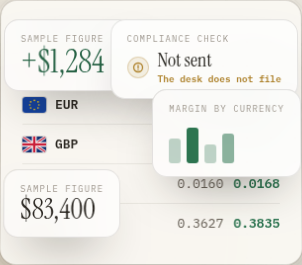
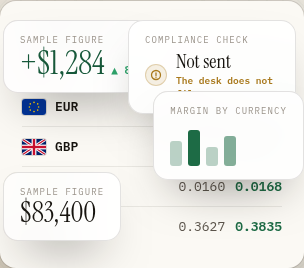
fix: wrap the hero file line and reshoot the phone panels
The signed sentence stays the same and wraps inside the card at phone width. The old-way shot is taken after reduced motion leaves the problems layer visible.

diff --git a/design/site/CurrencyDesk Site.dc.html b/design/site/CurrencyDesk Site.dc.html
@@ -66,6 +66,8 @@
       [data-hero-chrome] { display: none !important; }
       [data-hero-stage] { height: auto !important; }
       [data-hero-rates="card"] { position: relative !important; width: 100% !important; max-width: 100% !important; left: auto !important; top: auto !important; transform: none !important; animation: none !important; margin: 24px auto 0 !important; }
+      [data-hero-note] { max-width: 168px !important; right: 8px !important; box-sizing: border-box !important; }
+      [data-hero-note] span { min-width: 0 !important; white-space: normal !important; overflow-wrap: break-word !important; }
       [data-founding] { grid-template-columns: minmax(0, 1fr) !important; padding: 32px 18px !important; }
       [data-founding-cta], [data-see-demo] { white-space: nowrap !important; }
       [data-nav-cta] { height: 44px !important; min-height: 44px !important; }
@@ -158,7 +160,7 @@
         </div>
 
         <div style="position: absolute; text-align: left; background: rgba(255,255,255,0.9); backdrop-filter: var(--glass); -webkit-backdrop-filter: var(--glass); border: 1px solid var(--line); border-radius: 15px; box-shadow: 0 24px 48px -22px rgba(23,20,15,0.5); top: 7%; left: 1%; padding: 13px 16px; animation: cdFloat 7s ease-in-out infinite;"><div style="font-family: var(--m); font-size: 9px; letter-spacing: 0.12em; text-transform: uppercase; color: var(--faint);">Sample figure</div><div style="font-family: var(--serif); font-size: 32px; color: var(--green-deep); margin-top: 2px; line-height: 1;">+$1,284<span style="font-family: var(--m); font-size: 11px; color: var(--green-bright); font-weight: 600;"> ▲ 8%</span></div></div>
-        <div style="position: absolute; text-align: left; background: rgba(255,255,255,0.9); backdrop-filter: var(--glass); -webkit-backdrop-filter: var(--glass); border: 1px solid var(--line); border-radius: 15px; box-shadow: 0 24px 48px -22px rgba(23,20,15,0.5); top: 7%; right: 1%; padding: 13px 16px; animation: cdFloat 6.4s ease-in-out 0.5s infinite;">
+        <div data-hero-note style="position: absolute; text-align: left; background: rgba(255,255,255,0.9); backdrop-filter: var(--glass); -webkit-backdrop-filter: var(--glass); border: 1px solid var(--line); border-radius: 15px; box-shadow: 0 24px 48px -22px rgba(23,20,15,0.5); top: 7%; right: 1%; padding: 13px 16px; animation: cdFloat 6.4s ease-in-out 0.5s infinite;">
           <div style="font-family: var(--m); font-size: 9px; letter-spacing: 0.12em; text-transform: uppercase; color: var(--faint);">Compliance check</div>
           <div style="display: flex; align-items: center; gap: 9px; margin-top: 6px;">
             <span style="width: 22px; height: 22px; border-radius: 50%; flex: none; display: grid; place-items: center; background: rgba(169,121,28,0.12); border: 1px solid rgba(169,121,28,0.28); color: var(--brass);"><svg viewBox="0 0 24 24" width="12" height="12" fill="none" stroke="currentColor" stroke-width="2.6" stroke-linecap="round" stroke-linejoin="round"><path d="M12 8v5M12 16.5v.01"></path><circle cx="12" cy="12" r="9"></circle></svg></span>

diff --git a/web/index.html b/web/index.html
@@ -77,6 +77,8 @@
       [data-hero-chrome] { display: none !important; }
       [data-hero-stage] { height: auto !important; }
       [data-hero-rates="card"] { position: relative !important; width: 100% !important; max-width: 100% !important; left: auto !important; top: auto !important; transform: none !important; animation: none !important; margin: 24px auto 0 !important; }
+      [data-hero-note] { max-width: 168px !important; right: 8px !important; box-sizing: border-box !important; }
+      [data-hero-note] span { min-width: 0 !important; white-space: normal !important; overflow-wrap: break-word !important; }
       [data-founding] { grid-template-columns: minmax(0, 1fr) !important; padding: 32px 18px !important; }
       [data-founding-cta], [data-see-demo] { white-space: nowrap !important; }
       [data-nav-cta] { height: 44px !important; min-height: 44px !important; }
@@ -169,7 +171,7 @@
         </div>
 
         <div style="position: absolute; text-align: left; background: rgba(255,255,255,0.9); backdrop-filter: var(--glass); -webkit-backdrop-filter: var(--glass); border: 1px solid var(--line); border-radius: 15px; box-shadow: 0 24px 48px -22px rgba(23,20,15,0.5); top: 7%; left: 1%; padding: 13px 16px; animation: cdFloat 7s ease-in-out infinite;"><div style="font-family: var(--m); font-size: 9px; letter-spacing: 0.12em; text-transform: uppercase; color: var(--faint);">Sample figure</div><div style="font-family: var(--serif); font-size: 32px; color: var(--green-deep); margin-top: 2px; line-height: 1;">+$1,284<span style="font-family: var(--m); font-size: 11px; color: var(--green-bright); font-weight: 600;"> ▲ 8%</span></div></div>
-        <div style="position: absolute; text-align: left; background: rgba(255,255,255,0.9); backdrop-filter: var(--glass); -webkit-backdrop-filter: var(--glass); border: 1px solid var(--line); border-radius: 15px; box-shadow: 0 24px 48px -22px rgba(23,20,15,0.5); top: 7%; right: 1%; padding: 13px 16px; animation: cdFloat 6.4s ease-in-out 0.5s infinite;">
+        <div data-hero-note style="position: absolute; text-align: left; background: rgba(255,255,255,0.9); backdrop-filter: var(--glass); -webkit-backdrop-filter: var(--glass); border: 1px solid var(--line); border-radius: 15px; box-shadow: 0 24px 48px -22px rgba(23,20,15,0.5); top: 7%; right: 1%; padding: 13px 16px; animation: cdFloat 6.4s ease-in-out 0.5s infinite;">
           <div style="font-family: var(--m); font-size: 9px; letter-spacing: 0.12em; text-transform: uppercase; color: var(--faint);">Compliance check</div>
           <div style="display: flex; align-items: center; gap: 9px; margin-top: 6px;">
             <span style="width: 22px; height: 22px; border-radius: 50%; flex: none; display: grid; place-items: center; background: rgba(169,121,28,0.12); border: 1px solid rgba(169,121,28,0.28); color: var(--brass);"><svg viewBox="0 0 24 24" width="12" height="12" fill="none" stroke="currentColor" stroke-width="2.6" stroke-linecap="round" stroke-linejoin="round"><path d="M12 8v5M12 16.5v.01"></path><circle cx="12" cy="12" r="9"></circle></svg></span>

diff --git a/tests/e2e/phone-layout-home.spec.ts b/tests/e2e/phone-layout-home.spec.ts
@@ -63,6 +63,17 @@ test("stacks the desktop page below 640 and keeps tap targets at 44px", async ({
   note(!!card && card.x >= -1 && card.x + card.width <= 361, "sample rates card misses the 360 width: " + JSON.stringify(card));
   const chromeVisible = await page.locator("[data-hero-rates='card']").getByText("app.currencydeskos.com").isVisible();
   note(!chromeVisible, "hero window chrome still visible at 360");
+  const fileNote = await page.locator("[data-hero-stage]").getByText("The desk does not file", { exact: true }).evaluate((el) => {
+    const range = document.createRange();
+    range.selectNodeContents(el);
+    const rects = [...range.getClientRects()];
+    const tops = new Set(rects.map((r) => Math.round(r.top)));
+    const card = el.closest("[data-hero-note]") ?? el.parentElement?.parentElement?.parentElement;
+    const edge = card ? card.getBoundingClientRect().right : window.innerWidth;
+    const cut = rects.some((r) => r.right > edge + 1 || r.right > window.innerWidth + 1);
+    return { text: el.textContent, lines: tops.size, cut };
+  });
+  note(fileNote.text === "The desk does not file" && fileNote.lines > 1 && !fileNote.cut, "hero file line does not wrap inside the card: " + JSON.stringify(fileNote));
 
   const rail = page.locator("[data-rail]", { hasText: "Cheque cashing" });
   await rail.click();
